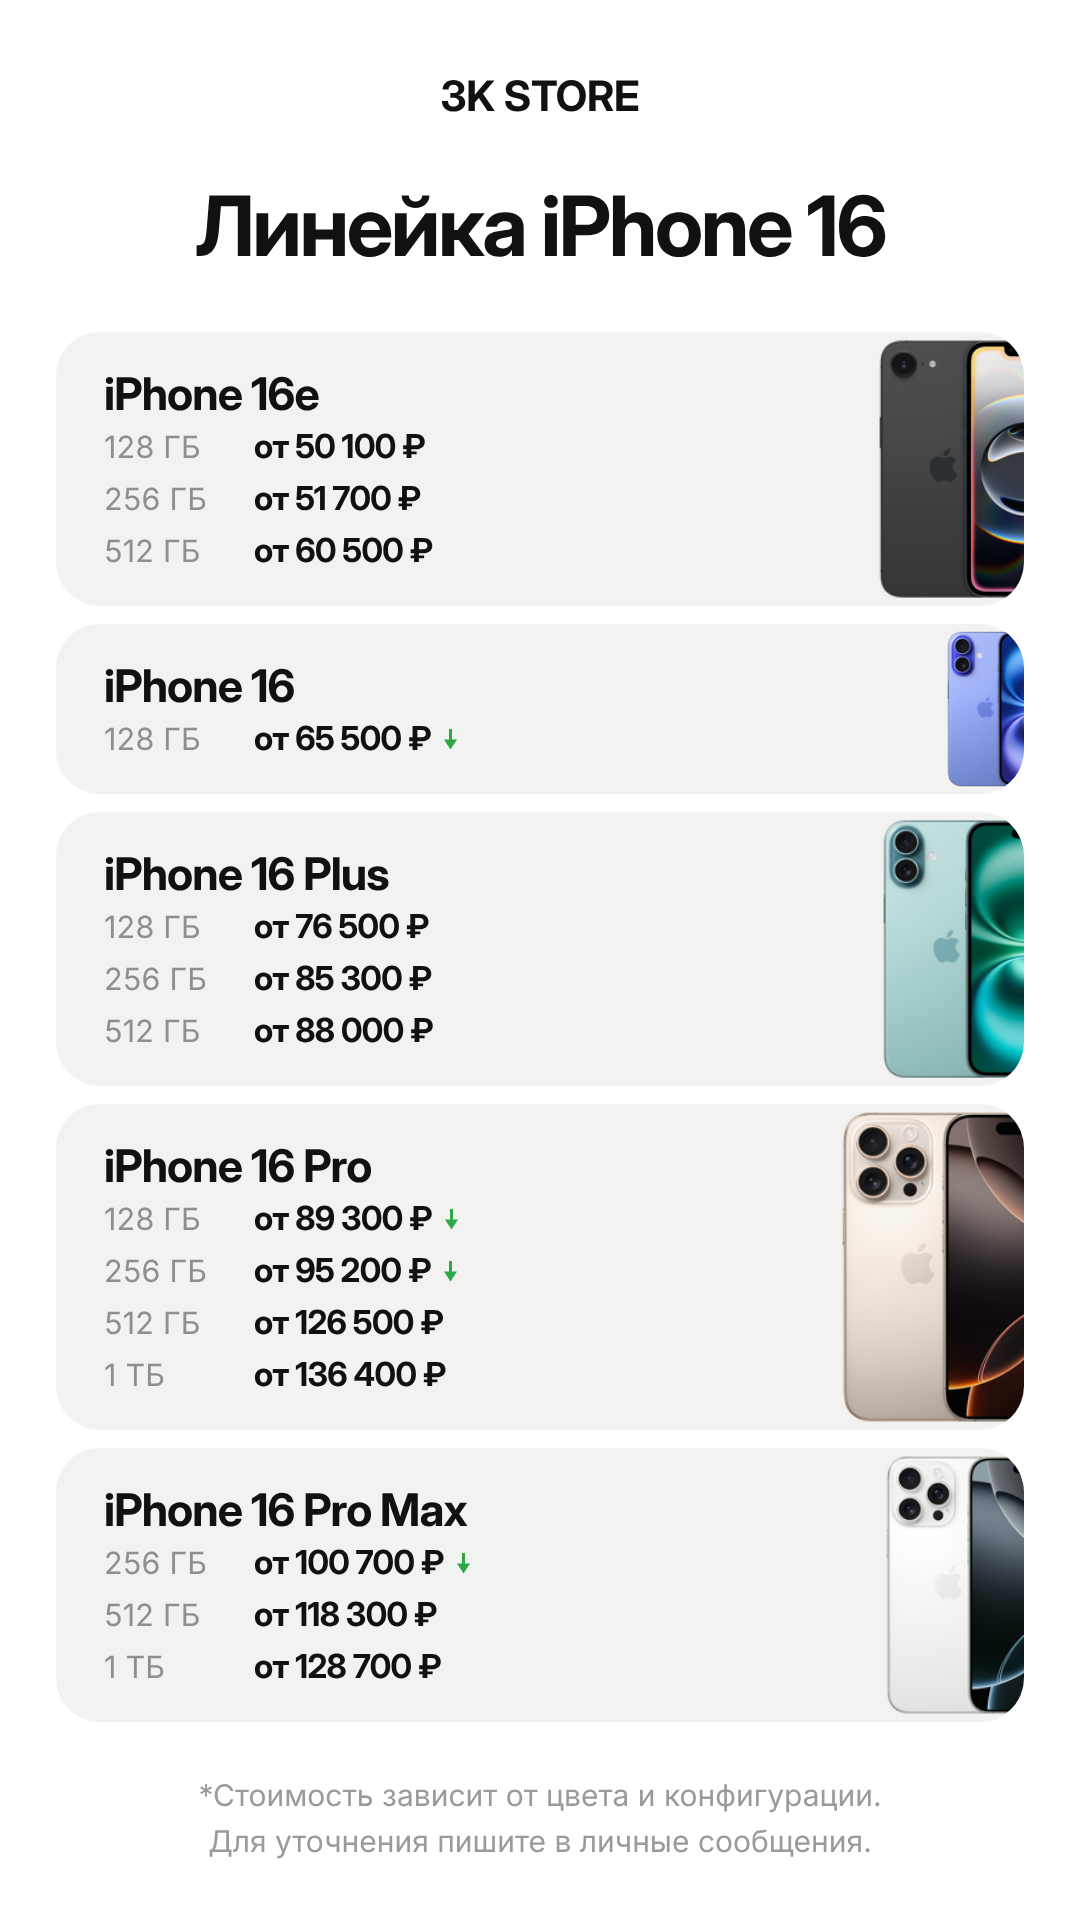
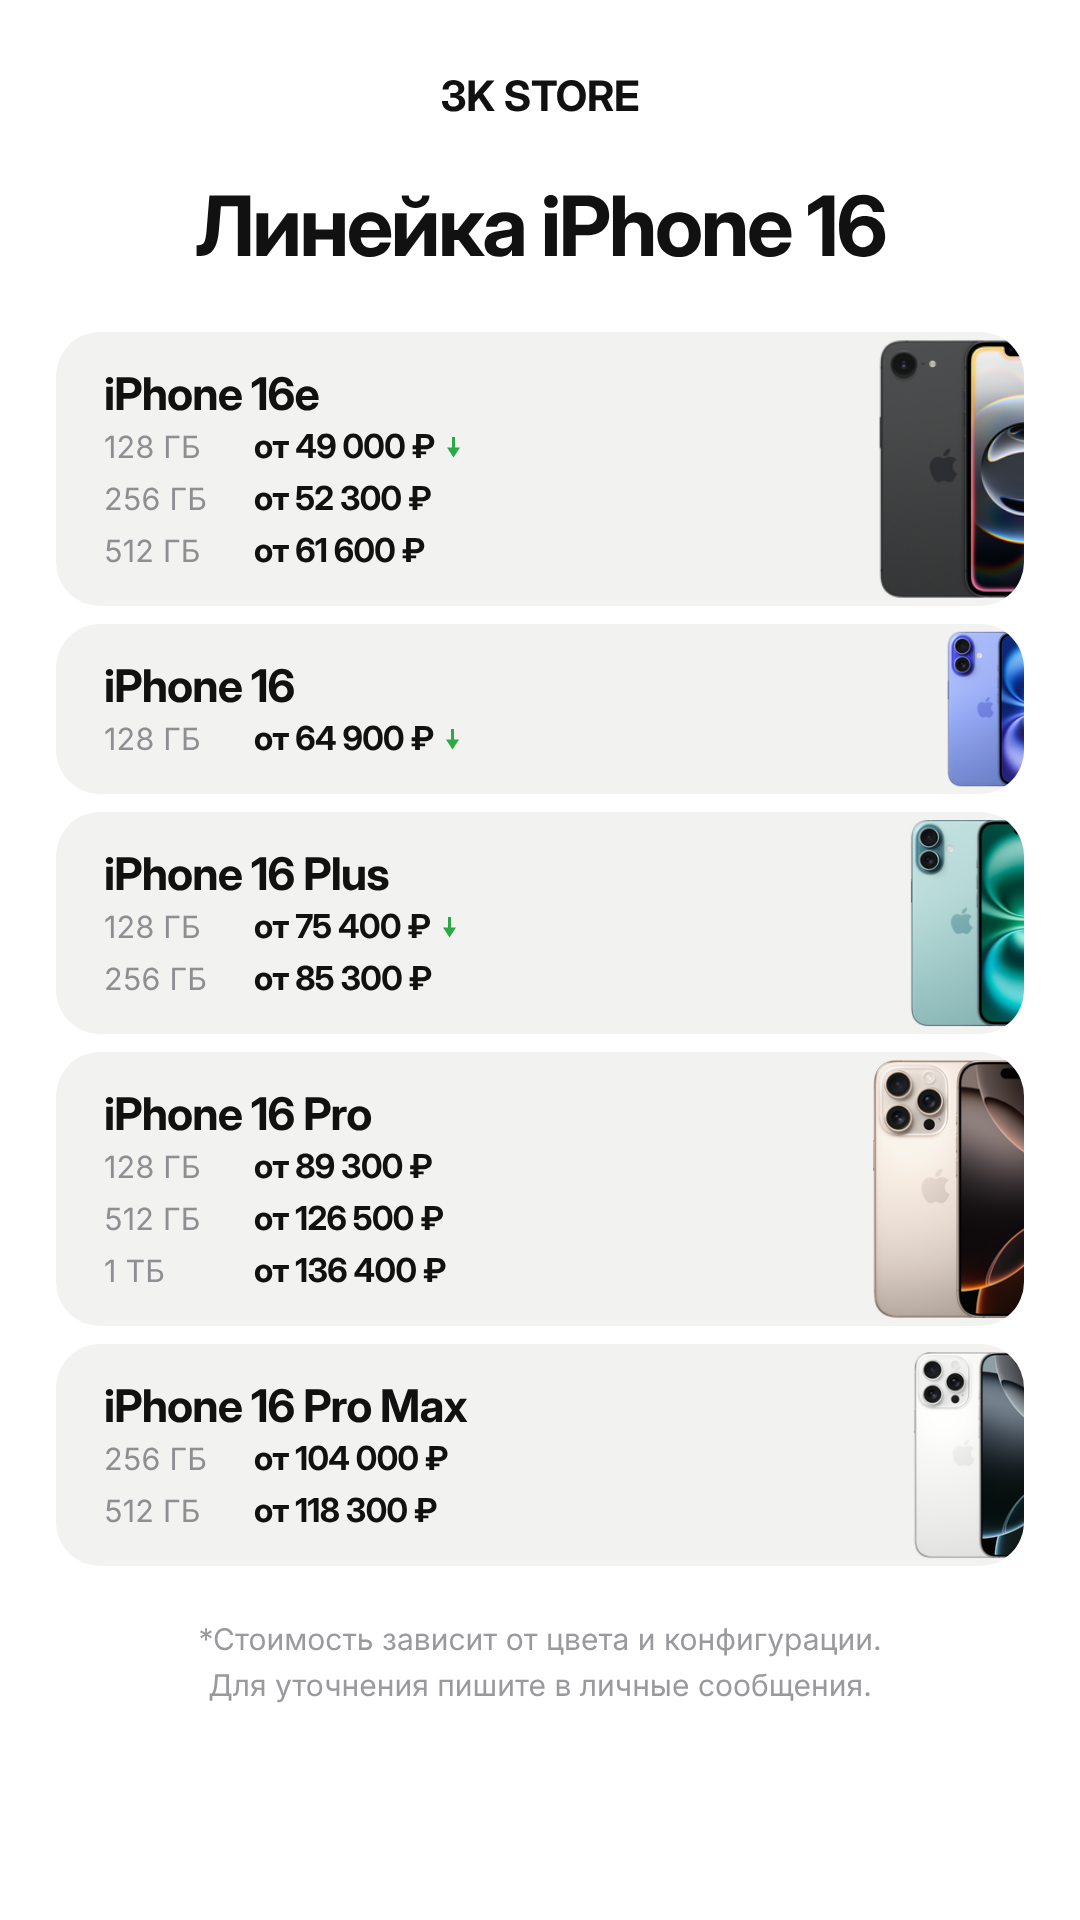
Прайсы iPhone 16, 17 и 17 Pro на 17.11
Claude-Session: https://claude.ai/code/session_014zc7qX9TFUN7T7gG8PEUD3

diff --git a/price/iphone-16.js b/price/iphone-16.js
@@ -2,31 +2,28 @@
 // Стрелка вниз ставится сама, если price < prev.
 window.PRICE = {
   title: 'Линейка iPhone 16',
-  date: '24.10.2026',
+  date: '17.11.2026',
   models: [
     { name: 'iPhone 16e', phone: 'iphone-16e', rows: [
-      { mem: '128 ГБ', price: 50100, prev: 50100 },
-      { mem: '256 ГБ', price: 51700, prev: 51700 },
-      { mem: '512 ГБ', price: 60500, prev: 60000 },
+      { mem: '128 ГБ', price: 49000, prev: 50100 },
+      { mem: '256 ГБ', price: 52300, prev: 51700 },
+      { mem: '512 ГБ', price: 61600, prev: 60500 },
     ]},
     { name: 'iPhone 16', phone: 'iphone-16', rows: [
-      { mem: '128 ГБ', price: 65500, prev: 66800 },
+      { mem: '128 ГБ', price: 64900, prev: 65500 },
     ]},
     { name: 'iPhone 16 Plus', phone: 'iphone-16-plus', rows: [
-      { mem: '128 ГБ', price: 76500, prev: 76300 },
+      { mem: '128 ГБ', price: 75400, prev: 76500 },
       { mem: '256 ГБ', price: 85300, prev: 85300 },
-      { mem: '512 ГБ', price: 88000, prev: 88000 },
     ]},
     { name: 'iPhone 16 Pro', phone: 'iphone-16-pro', rows: [
-      { mem: '128 ГБ', price: 89300, prev: 93000 },
-      { mem: '256 ГБ', price: 95200, prev: 118800 },
+      { mem: '128 ГБ', price: 89300, prev: 89300 },
       { mem: '512 ГБ', price: 126500, prev: 126500 },
       { mem: '1 ТБ', price: 136400, prev: 136400 },
     ]},
     { name: 'iPhone 16 Pro Max', phone: 'iphone-16-pro-max', rows: [
-      { mem: '256 ГБ', price: 100700, prev: 104000 },
+      { mem: '256 ГБ', price: 104000, prev: 100700 },
       { mem: '512 ГБ', price: 118300, prev: 118300 },
-      { mem: '1 ТБ', price: 128700, prev: 128700 },
     ]},
   ],
 };

diff --git a/price/iphone-17-pro.js b/price/iphone-17-pro.js
@@ -2,19 +2,19 @@
 // Стрелка вниз ставится сама, если price < prev.
 window.PRICE = {
   title: 'iPhone 17 Pro\nи Pro Max',
-  date: '24.10.2026',
+  date: '17.11.2026',
   size: 'large',
   models: [
     { name: 'iPhone 17 Pro', phone: 'iphone-17-pro', rows: [
-      { mem: '256 ГБ', price: 101200, prev: 103100 },
-      { mem: '512 ГБ', price: 118800, prev: 120500 },
-      { mem: '1 ТБ', price: 136400, prev: 133700 },
+      { mem: '256 ГБ', price: 101200, prev: 101200 },
+      { mem: '512 ГБ', price: 122700, prev: 118800 },
+      { mem: '1 ТБ', price: 133100, prev: 136400 },
     ]},
     { name: 'iPhone 17 Pro Max', phone: 'iphone-17-pro-max', rows: [
-      { mem: '256 ГБ', price: 107500, prev: 107700 },
-      { mem: '512 ГБ', price: 123200, prev: 123200 },
-      { mem: '1 ТБ', price: 141900, prev: 150200 },
-      { mem: '2 ТБ', price: 153500, prev: 157900 },
+      { mem: '256 ГБ', price: 106400, prev: 107500 },
+      { mem: '512 ГБ', price: 123800, prev: 123200 },
+      { mem: '1 ТБ', price: 145200, prev: 141900 },
+      { mem: '2 ТБ', price: 161200, prev: 153500 },
     ]},
   ],
 };

diff --git a/price/iphone-17.js b/price/iphone-17.js
@@ -2,20 +2,20 @@
 // Стрелка вниз ставится сама, если price < prev.
 window.PRICE = {
   title: 'iPhone 17, 17E и Air',
-  date: '24.10.2026',
+  date: '17.11.2026',
   size: 'large',
   models: [
     { name: 'iPhone 17e', phone: 'iphone-17e', rows: [
       { mem: '256 ГБ', price: 64400, prev: 64400 },
-      { mem: '512 ГБ', price: 68200, prev: 71000 },
+      { mem: '512 ГБ', price: 72100, prev: 68200 },
     ]},
     { name: 'iPhone 17', phone: 'iphone-17', rows: [
-      { mem: '256 ГБ', price: 79200, prev: 82500 },
-      { mem: '512 ГБ', price: 93000, prev: 96800 },
+      { mem: '256 ГБ', price: 79400, prev: 79200 },
+      { mem: '512 ГБ', price: 97400, prev: 93000 },
     ]},
     { name: 'iPhone Air', phone: 'iphone-air', rows: [
       { mem: '256 ГБ', price: 82000, prev: 82000 },
-      { mem: '512 ГБ', price: 86900, prev: 87500 },
+      { mem: '512 ГБ', price: 88800, prev: 86900 },
       { mem: '1 ТБ', price: 97900, prev: 97900 },
     ]},
   ],
